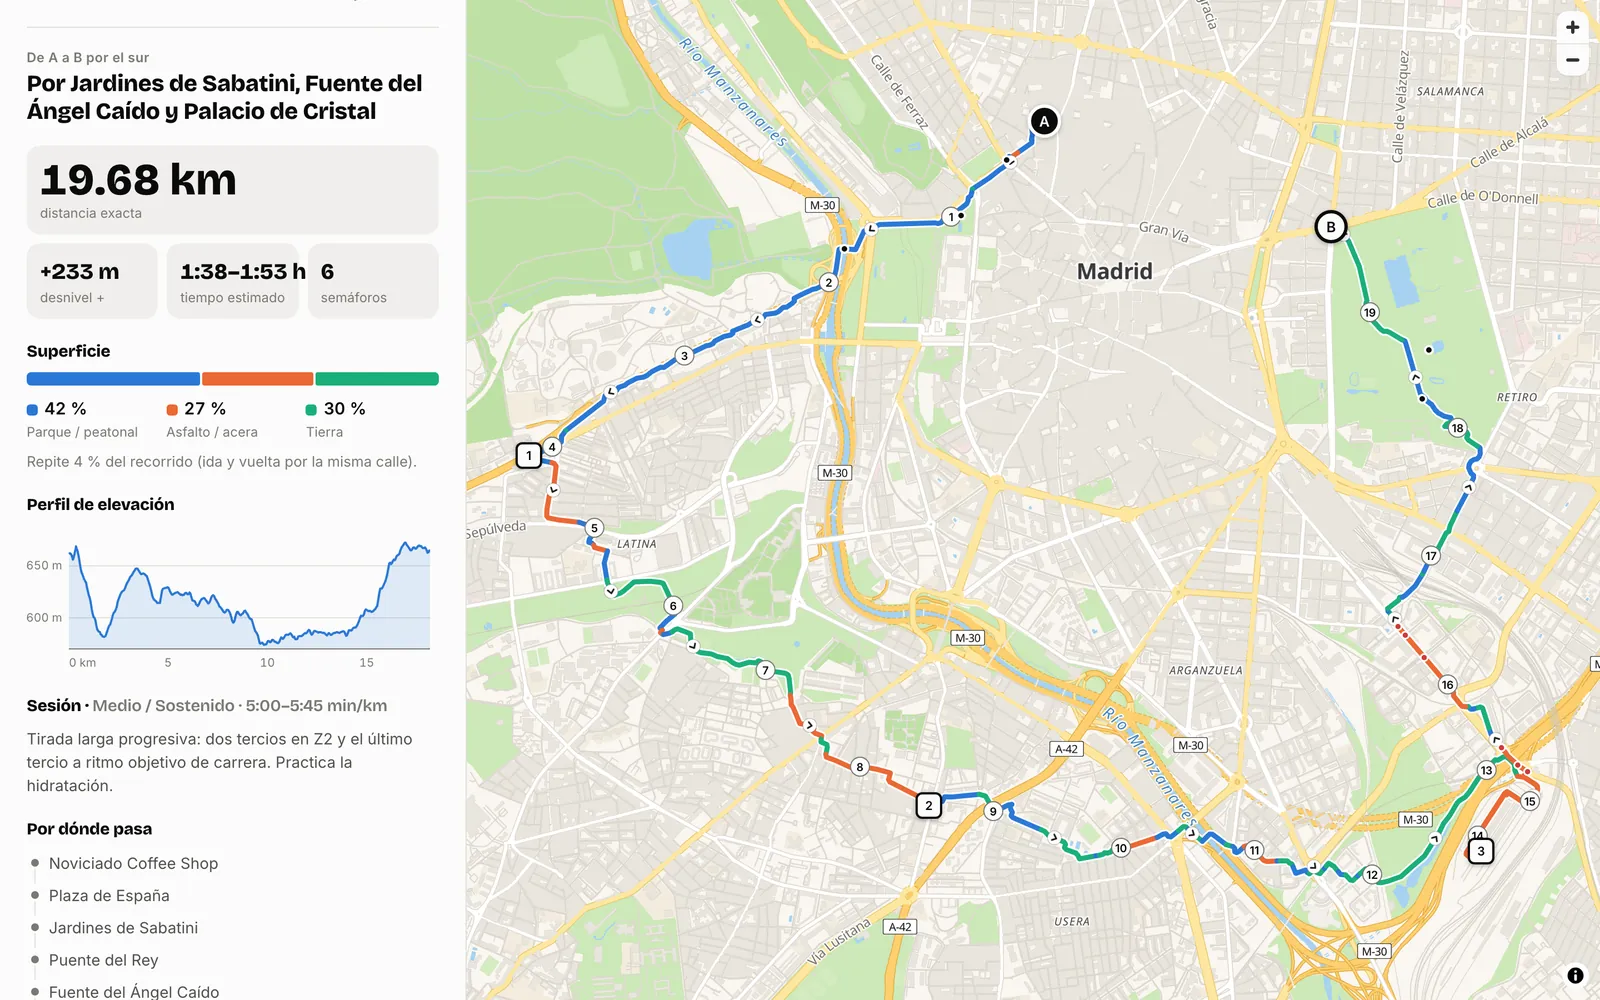
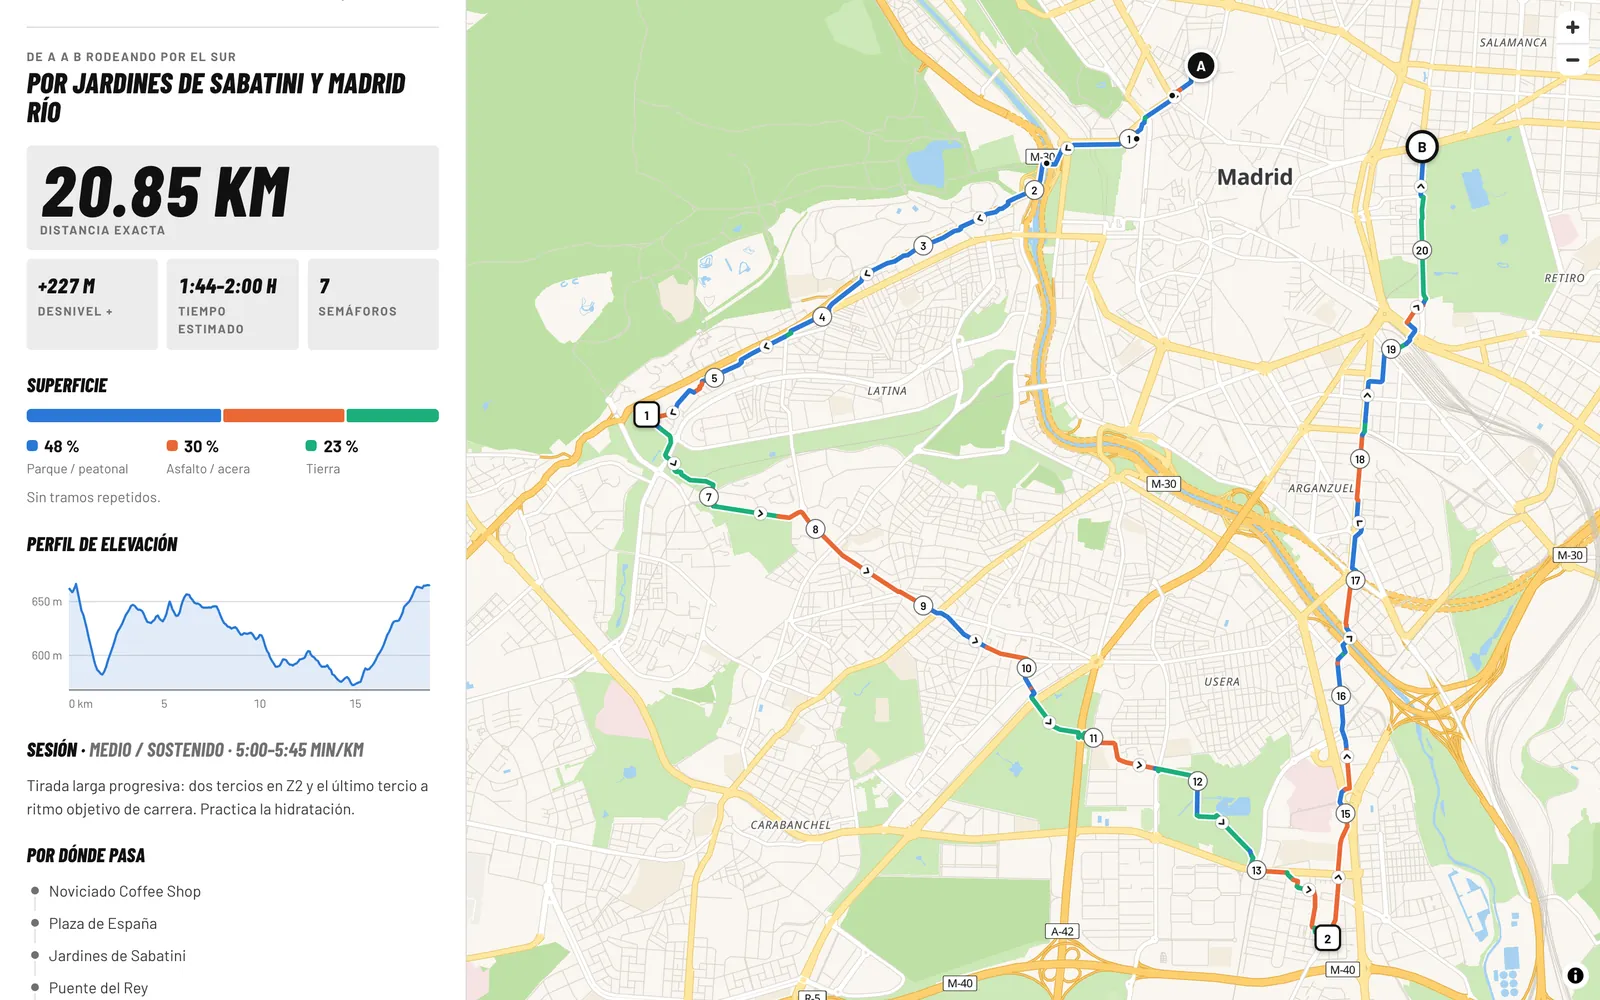
Estilo deportivo fijo, enlace de Google Maps con 9 puntos y capturas nuevas

diff --git a/index.html b/index.html
@@ -19,7 +19,7 @@
   <link rel="preconnect" href="https://fonts.gstatic.com" crossorigin>
   <link href="https://fonts.googleapis.com/css2?family=Bricolage+Grotesque:opsz,wght@12..96,600;12..96,800&family=Inter:wght@400;500;600&family=Barlow+Condensed:ital,wght@0,700;0,800;1,700;1,800&family=Barlow:wght@400;500;600;700&display=swap" rel="stylesheet">
   <link rel="stylesheet" href="https://cdnjs.cloudflare.com/ajax/libs/maplibre-gl/4.7.1/maplibre-gl.css">
-  <link rel="stylesheet" href="css/styles.css?v=202610140249">
+  <link rel="stylesheet" href="css/styles.css?v=202610140258">
 </head>
 <body>
   <div class="app">
@@ -169,17 +169,17 @@
   <script type="importmap">
 {
   "imports": {
-    "./js/api.js": "./js/api.js?v=202610140249",
-    "./js/app.js": "./js/app.js?v=202610140249",
-    "./js/config.js": "./js/config.js?v=202610140249",
-    "./js/geo.js": "./js/geo.js?v=202610140249",
-    "./js/map.js": "./js/map.js?v=202610140249",
-    "./js/mapstyle.js": "./js/mapstyle.js?v=202610140249",
-    "./js/planner.js": "./js/planner.js?v=202610140249",
-    "./js/profile.js": "./js/profile.js?v=202610140249"
+    "./js/api.js": "./js/api.js?v=202610140258",
+    "./js/app.js": "./js/app.js?v=202610140258",
+    "./js/config.js": "./js/config.js?v=202610140258",
+    "./js/geo.js": "./js/geo.js?v=202610140258",
+    "./js/map.js": "./js/map.js?v=202610140258",
+    "./js/mapstyle.js": "./js/mapstyle.js?v=202610140258",
+    "./js/planner.js": "./js/planner.js?v=202610140258",
+    "./js/profile.js": "./js/profile.js?v=202610140258"
   }
 }
   </script>
-  <script type="module" src="js/app.js?v=202610140249"></script>
+  <script type="module" src="js/app.js?v=202610140258"></script>
 </body>
 </html>

diff --git a/css/styles.css b/css/styles.css
@@ -463,7 +463,8 @@ button:focus-visible, a:focus-visible, input:focus-visible { outline: 2px solid 
 [data-style="sport"] .result-head h2 { font-size: 26px; line-height: 1; }
 [data-style="sport"] .block h3, [data-style="sport"] .list-section h3 { font-size: 18px; }
 [data-style="sport"] .stat.hero .v { font-size: 64px; line-height: .9; }
-[data-style="sport"] .stat .v { font-size: 26px; }
+[data-style="sport"] .stat .v { font-size: 19px; }
+[data-style="sport"] .stat:not(.hero) { padding-inline: 10px; }
 [data-style="sport"] #km-out b { font-size: 38px; }
 [data-style="sport"] .eyebrow,
 [data-style="sport"] .field legend, [data-style="sport"] .field label,
@@ -496,6 +497,7 @@ button:focus-visible, a:focus-visible, input:focus-visible { outline: 2px solid 
 [data-style="sport"] .point-main input { border-radius: var(--radius); }
 [data-style="sport"] .icon-btn { border-radius: 999px; }
 @media (max-width: 420px) {
+  [data-style="sport"] .stat:not(.hero) .v { font-size: 19px; }
   [data-style="sport"] .eyebrow { letter-spacing: .05em; font-size: 10px; }
   [data-style="sport"] .brand h1 { font-size: 40px; }
 }

diff --git a/README.md b/README.md
@@ -7,7 +7,7 @@ intentando meterte por parques y paseos peatonales. Si no pones llegada, te hace
 **Pruébala aquí: https://danielcs94.github.io/rutas-ab/**
 
 <p>
-  <img src="docs/captura-escritorio.webp" alt="Media maratón de Noviciado a la Puerta de Alcalá pasando por Madrid Río y el Retiro" width="72%">
+  <img src="docs/captura-escritorio.webp" alt="Ruta de 20,85 km de Noviciado a la Puerta de Alcalá por Sabatini, Madrid Río y el Retiro" width="72%">
   <img src="docs/captura-movil.webp" alt="La app en el móvil, en modo oscuro" width="24%">
 </p>
 
